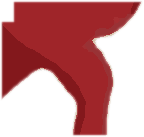
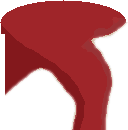
2.7.5: bull cut along contours with round joints, body on top hides seams, tail swishes
Claude-Session: https://claude.ai/code/session_01EhR6nxa8tFMPQr7oErcuW6

diff --git a/cele.html b/cele.html
@@ -18,25 +18,28 @@ html,body{margin:0;height:100%;background:transparent;font-family:"Segoe UI Vari
 .arena .wall{width:8%;min-width:50px;right:24px;top:10%;bottom:10%}
 .arena .runner{width:clamp(90px,15vw,170px);height:auto;aspect-ratio:100/64;margin-top:0;transform:translateY(-50%)}
 .arena .runner{aspect-ratio:893/515;height:auto}
-/* layered bull: body + four legs (thigh + lower leg) cut from the clipart; hips and knees swing */
+/* layered bull cut along the contours: legs (thigh + lower leg) and tail sit behind the body, which hides the joints */
 .rig{position:absolute;left:0;top:0;width:893px;height:515px;transform-origin:0 0;transform:scale(var(--s,1))}
-.rig img,.rig .leg,.rig .lower{position:absolute;display:block;max-width:none}
+.rig img,.rig .leg,.rig .lower,.rig .tail{position:absolute;display:block;max-width:none}
 .rig .body{left:0;top:0}
-.rig .far-hind{left:41px;top:277px;width:104px;height:147px;transform-origin:50% 16px}
-.rig .far-hind .lower{left:-3px;top:115px;transform-origin:50% 14px}
-.rig .far-front{left:408px;top:289px;width:108px;height:131px;transform-origin:50% 16px}
-.rig .far-front .lower{left:0px;top:99px;transform-origin:50% 14px}
-.rig .near-hind{left:100px;top:273px;width:157px;height:151px;transform-origin:50% 16px}
-.rig .near-hind .lower{left:68px;top:119px;transform-origin:50% 14px}
-.rig .near-front{left:512px;top:277px;width:144px;height:137px;transform-origin:50% 16px}
-.rig .near-front .lower{left:47px;top:105px;transform-origin:50% 14px}
+.rig .far-hind{left:43px;top:277px;width:105px;height:140px;transform-origin:67px 22px}
+.rig .far-hind .lower{left:-4px;top:114px;transform-origin:20px 18px}
+.rig .near-hind{left:102px;top:273px;width:129px;height:144px;transform-origin:50px 22px}
+.rig .near-hind .lower{left:74px;top:108px;transform-origin:27px 28px}
+.rig .far-front{left:410px;top:289px;width:108px;height:124px;transform-origin:53px 22px}
+.rig .far-front .lower{left:0px;top:87px;transform-origin:54px 29px}
+.rig .near-front{left:513px;top:277px;width:128px;height:130px;transform-origin:63px 22px}
+.rig .near-front .lower{left:47px;top:101px;transform-origin:41px 21px}
+.rig .tail{left:1px;top:106px;transform-origin:102px 41px}
 .rig.run .near-front,.rig.run .far-hind{animation:hip .38s ease-in-out infinite alternate}
 .rig.run .near-hind,.rig.run .far-front{animation:hip .38s ease-in-out infinite alternate-reverse}
 .rig.run .near-front .lower,.rig.run .far-hind .lower{animation:knee .38s ease-in-out infinite alternate;animation-delay:-.12s}
 .rig.run .near-hind .lower,.rig.run .far-front .lower{animation:knee .38s ease-in-out infinite alternate-reverse;animation-delay:-.12s}
+.rig.run .tail{animation:swish .76s ease-in-out infinite alternate}
 @keyframes hip{from{transform:rotate(-16deg)}to{transform:rotate(16deg)}}
-@keyframes knee{from{transform:rotate(-6deg)}to{transform:rotate(22deg)}}
-@media (prefers-reduced-motion:reduce){.rig .leg,.rig .lower{animation:none!important}}
+@keyframes knee{from{transform:rotate(-6deg)}to{transform:rotate(24deg)}}
+@keyframes swish{from{transform:rotate(-10deg)}to{transform:rotate(12deg)}}
+@media (prefers-reduced-motion:reduce){.rig .leg,.rig .lower,.rig .tail{animation:none!important}}
 /* bull-through-the-wall animation on the right side of the banner */
 .stage{position:absolute;z-index:1;top:0;bottom:0;right:28px;width:46%;max-width:420px;min-width:170px;pointer-events:none}
 .wall{position:absolute;right:18px;top:8%;bottom:8%;width:34px;display:grid;grid-template-rows:repeat(6,1fr);gap:2px}
@@ -65,7 +68,8 @@ const el=(t,c)=>{const e=document.createElement(t);if(c)e.className=c;return e;}
 function makeRig(){ const r=document.createElement("div"); r.className="rig run";
   const img=(n)=>{ const i=document.createElement("img"); i.src="rig-"+n+".png"; i.alt=""; i.draggable=false; return i; };
   const leg=(n)=>{ const l=document.createElement("div"); l.className="leg "+n; l.append(img(n+"-upper")); const lo=document.createElement("div"); lo.className="lower"; lo.append(img(n+"-lower")); l.append(lo); return l; };
-  r.append(leg("far-hind"), leg("far-front")); const b=img("body"); b.className="body"; r.append(b); r.append(leg("near-hind"), leg("near-front")); return r; }
+  const t=img("tail"); t.className="tail";
+  r.append(leg("far-hind"), leg("far-front"), leg("near-hind"), leg("near-front"), t); const b=img("body"); b.className="body"; r.append(b); return r; }
 function fitRig(host){ const r=host.querySelector(".rig"); if (r) r.style.setProperty("--s", (host.clientWidth/893).toFixed(4)); }
 function bullStage(){
   const stage=el("div","stage"), wall=el("div","wall");

diff --git a/widget.html b/widget.html
@@ -65,25 +65,28 @@ body{background:var(--bg);color:var(--fg);font-family:var(--f-body);font-size:13
 .track{flex:1;position:relative;height:28px;margin:0 8px;pointer-events:none;overflow:hidden}
 .bull{position:absolute;top:0;left:0;width:50px;height:28px;transition:left 4.6s linear}
 .bull .rigbox{display:block;position:relative;width:48px;height:28px}
-/* layered bull: body + four legs (thigh + lower leg) cut from the clipart; hips and knees swing */
+/* layered bull cut along the contours: legs (thigh + lower leg) and tail sit behind the body, which hides the joints */
 .rig{position:absolute;left:0;top:0;width:893px;height:515px;transform-origin:0 0;transform:scale(var(--s,1))}
-.rig img,.rig .leg,.rig .lower{position:absolute;display:block;max-width:none}
+.rig img,.rig .leg,.rig .lower,.rig .tail{position:absolute;display:block;max-width:none}
 .rig .body{left:0;top:0}
-.rig .far-hind{left:41px;top:277px;width:104px;height:147px;transform-origin:50% 16px}
-.rig .far-hind .lower{left:-3px;top:115px;transform-origin:50% 14px}
-.rig .far-front{left:408px;top:289px;width:108px;height:131px;transform-origin:50% 16px}
-.rig .far-front .lower{left:0px;top:99px;transform-origin:50% 14px}
-.rig .near-hind{left:100px;top:273px;width:157px;height:151px;transform-origin:50% 16px}
-.rig .near-hind .lower{left:68px;top:119px;transform-origin:50% 14px}
-.rig .near-front{left:512px;top:277px;width:144px;height:137px;transform-origin:50% 16px}
-.rig .near-front .lower{left:47px;top:105px;transform-origin:50% 14px}
+.rig .far-hind{left:43px;top:277px;width:105px;height:140px;transform-origin:67px 22px}
+.rig .far-hind .lower{left:-4px;top:114px;transform-origin:20px 18px}
+.rig .near-hind{left:102px;top:273px;width:129px;height:144px;transform-origin:50px 22px}
+.rig .near-hind .lower{left:74px;top:108px;transform-origin:27px 28px}
+.rig .far-front{left:410px;top:289px;width:108px;height:124px;transform-origin:53px 22px}
+.rig .far-front .lower{left:0px;top:87px;transform-origin:54px 29px}
+.rig .near-front{left:513px;top:277px;width:128px;height:130px;transform-origin:63px 22px}
+.rig .near-front .lower{left:47px;top:101px;transform-origin:41px 21px}
+.rig .tail{left:1px;top:106px;transform-origin:102px 41px}
 .rig.run .near-front,.rig.run .far-hind{animation:hip .38s ease-in-out infinite alternate}
 .rig.run .near-hind,.rig.run .far-front{animation:hip .38s ease-in-out infinite alternate-reverse}
 .rig.run .near-front .lower,.rig.run .far-hind .lower{animation:knee .38s ease-in-out infinite alternate;animation-delay:-.12s}
 .rig.run .near-hind .lower,.rig.run .far-front .lower{animation:knee .38s ease-in-out infinite alternate-reverse;animation-delay:-.12s}
+.rig.run .tail{animation:swish .76s ease-in-out infinite alternate}
 @keyframes hip{from{transform:rotate(-16deg)}to{transform:rotate(16deg)}}
-@keyframes knee{from{transform:rotate(-6deg)}to{transform:rotate(22deg)}}
-@media (prefers-reduced-motion:reduce){.rig .leg,.rig .lower{animation:none!important}}
+@keyframes knee{from{transform:rotate(-6deg)}to{transform:rotate(24deg)}}
+@keyframes swish{from{transform:rotate(-10deg)}to{transform:rotate(12deg)}}
+@media (prefers-reduced-motion:reduce){.rig .leg,.rig .lower,.rig .tail{animation:none!important}}
 .bull.back .rigbox{transform:scaleX(-1)}
 .bull .bob{display:block;animation:bob .38s ease-in-out infinite alternate}
 @keyframes gallop{from{transform:rotate(-10deg)}to{transform:rotate(10deg)}}
@@ -317,7 +320,8 @@ const PHONE_SVG = '<svg class="phi" viewBox="0 0 24 24" aria-hidden="true"><path
 function makeRig(){ const r=document.createElement("div"); r.className="rig run";
   const img=(n)=>{ const i=document.createElement("img"); i.src="rig-"+n+".png"; i.alt=""; i.draggable=false; return i; };
   const leg=(n)=>{ const l=document.createElement("div"); l.className="leg "+n; l.append(img(n+"-upper")); const lo=document.createElement("div"); lo.className="lower"; lo.append(img(n+"-lower")); l.append(lo); return l; };
-  r.append(leg("far-hind"), leg("far-front")); const b=img("body"); b.className="body"; r.append(b); r.append(leg("near-hind"), leg("near-front")); return r; }
+  const t=img("tail"); t.className="tail";
+  r.append(leg("far-hind"), leg("far-front"), leg("near-hind"), leg("near-front"), t); const b=img("body"); b.className="body"; r.append(b); return r; }
 function fitRig(host){ const r=host.querySelector(".rig"); if (r) r.style.setProperty("--s", (host.clientWidth/893).toFixed(4)); }
 { const box = document.querySelector(".bull .rigbox"); if (box){ box.append(makeRig()); fitRig(box); } }
 const fmt = n => Number(n||0).toLocaleString("en-US");
